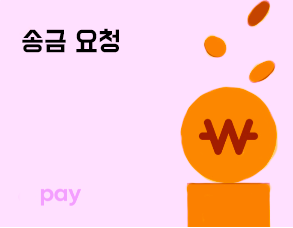
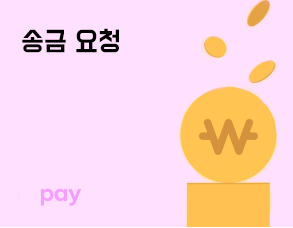
fixed: 로고 변경

Changed region(s): [[0.5836, 0.2456, 0.9522, 1.0], [0.6758, 0.1535, 0.7986, 0.2763], [0.8294, 0.0, 0.9215, 0.1228]]

diff --git a/src/Landing.jsx b/src/Landing.jsx
@@ -11,8 +11,10 @@ import LandingPayment from "./landing/LandingPayment";
 import LandingCommunity from "./landing/LandingCommunity";
 import LandingClub from "./landing/LandingClub";
 import { Link } from "react-router-dom";
-import { CardMedia } from "@mui/material";
+import { Avatar, CardMedia } from "@mui/material";
 import LandingFooter from "./landing/LandingFooter";
+import TopBar from "./component/payment/TopBar";
+import MarginEmpty from "./component/payment/MarginEmpty";
 
 const Landing = () => {
   return (
@@ -29,6 +31,10 @@ const Landing = () => {
         }}
       >
         <CardContent>
+          <TopBar>
+            <img style={{ width: "32px" }} src="/koguma_logo.png" />
+          </TopBar>
+          <MarginEmpty />
           <Typography
             sx={{ maxWidth: "15rem", textAlign: "center", mt: "1.5rem" }}
             variant="h5"

diff --git a/public/index.html b/public/index.html
@@ -1,8 +1,8 @@
 <!DOCTYPE html>
-<html lang="en">
+<html lang="ko">
   <head>
     <meta charset="utf-8" />
-    <link rel="icon" href="%PUBLIC_URL%/koguma/hi.png" />
+    <link rel="icon" href="%PUBLIC_URL%/koguma_icon.ico" />
     <link rel="stylesheet" href="%PUBLIC_URL%/index.css" />
     <meta name="viewport" content="width=device-width, initial-scale=1" />
     <meta name="theme-color" content="#ffffff" />
